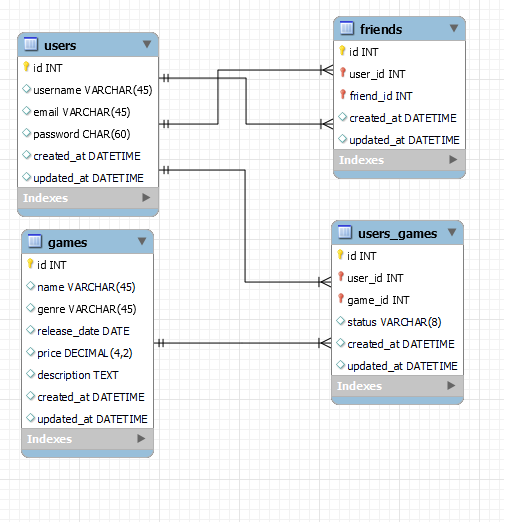
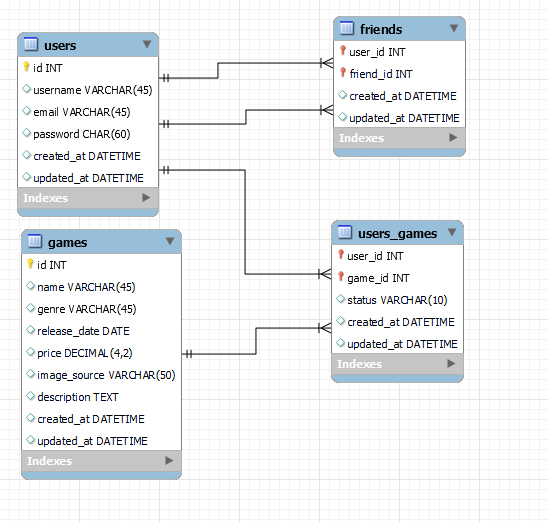
added image_source to Game object

Changed region(s): [[0.0297, 0.0612, 0.9208, 0.9178], [0.3861, 0.0306, 0.9505, 0.3671], [0.8911, 0.5813, 0.9208, 0.6119]]

diff --git a/flask_app/templates/dashboard.html b/flask_app/templates/dashboard.html
@@ -30,7 +30,7 @@
             <!-- Game card -->
             <div class="col-2">
                 <div class="card">
-                    <img src="../static/images/forza-horizon-5.jpeg" class="card-img-top" alt="Forza Horizon 5">  <!-- Image placeholder -->
+                    <img src="{{ game.image_source }}" class="card-img-top" alt="Forza Horizon 5">  <!-- Image placeholder -->
                     <div class="card-body">
                         <h5 class="card-title"><a href="/view/{{ game.id }}">{{ game.name }}</a></h5>
                     </div>

diff --git a/flask_app/models/game.py b/flask_app/models/game.py
@@ -9,6 +9,7 @@ class Game:
         self.genre = data['genre']
         self.release_date = data['release_date']
         self.price = data['price']
+        self.image_source = data['image_source']
         self.description = data['description']
         self.created_at = data['created_at']
         self.updated_at = data['updated_at']
